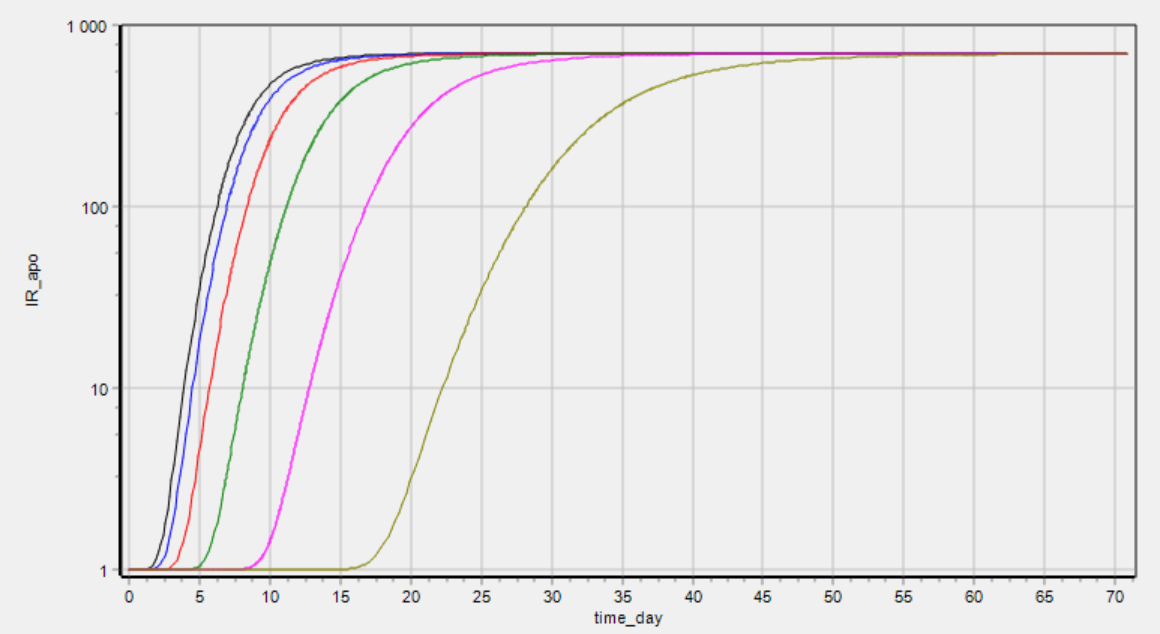
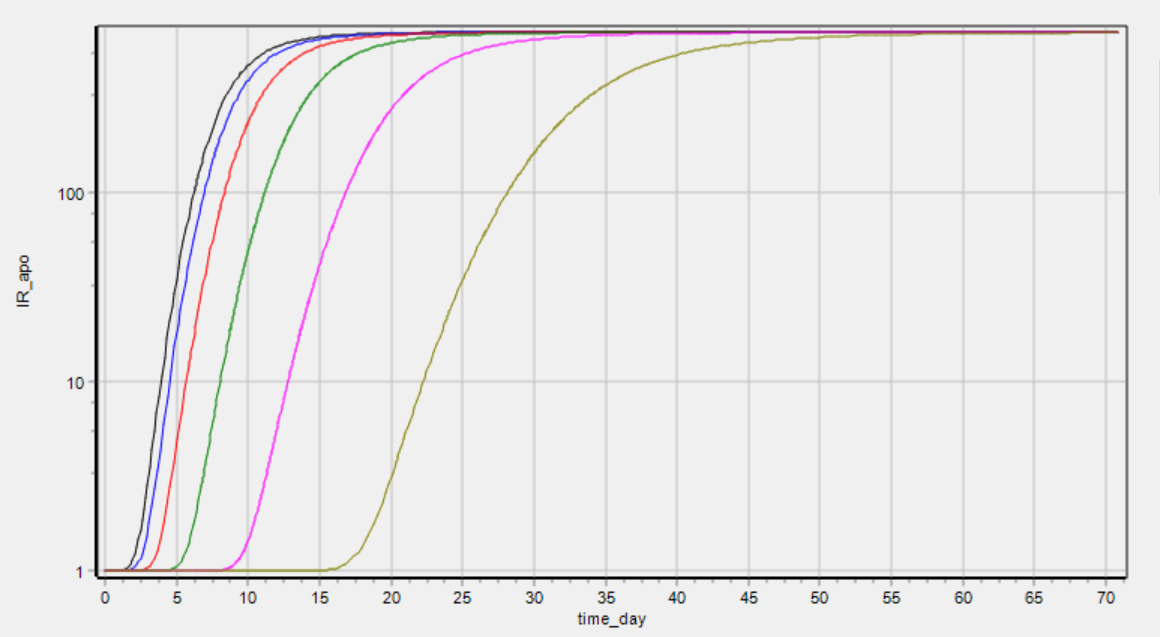
update autoplots after correction

Changed region(s): [[0.0, 0.03, 1.0, 0.989]]

diff --git a/diagnostics/matlab/run.m b/diagnostics/matlab/run.m
@@ -3,14 +3,14 @@ addpath("../../dist/covid19_integrated_matlab")
 
 p_names = ["kcell_to_cell", "NA_pmole", "sputum_dilution_coef", "k_apo_pc", "kbase_apo_vpc", "kbase_tran_pc_ipc", "kbase_tran_ipc_vpc", "k_shed_ace2_pc", "k_off_cov_ace2", "Num_sp_per_cov", "Kd_spike_ace2", "k_ent_cov_ipc", "k_rel_cov_vpc", "k_unc_cov_vpc", "k_rep_cov_rna_vpc", "EC50_rep_cov_rna_vpc", "k_ass_cov_vpc", "k_deg_cov", "Nmax_cov_per_cell", "k_deg_cov_rna", "T_sw_ir", "ET50_ir", "Emax_ir_apo", "n_ir", "Kd_anti_Ab", "anti_Ab_max", "Vol_pc", "L_to_mL"];
 output_names = ["time_day", "COVass_vpc", "Vol_alv", "vPC", "COVass_vpc_per_cell", "COV", "COV_RNA", "COV_num_sputum_ml", "PC", "iPC", "PC_tot", "PC_percent", "iPC_percent", "vPC_percent", "ACE2_pc", "ACE2_pc_per_cell", "COV_ACE2_pc", "COV_ACE2_pc_per_cell", "ACE2_pc_per_cell_tot", "ACE2_ipc", "ACE2_ipc_per_cell", "COV_ACE2_ipc", "COV_ACE2_ipc_per_cell", "ACE2_ipc_per_cell_tot", "ACE2_vpc", "ACE2_vpc_per_cell", "COV_ACE2_vpc", "COV_ACE2_vpc_per_cell", "ACE2_vpc_per_cell_tot", "COV_pc_per_cell_tot", "COV_ipc", "COV_ipc_per_cell", "COV_ipc_per_cell_tot", "COV_vpc", "COV_vpc_per_cell", "COV_RNA_vpc", "COV_RNA_vpc_per_cell", "COV_vpc_per_cell_tot", "COV_sgRNA_perc", "PC_hs_ss", "V_mat_pc", "k_tran_pc_ipc", "V_tran_pc_ipc", "k_tran_ipc_vpc", "V_tran_ipc_vpc", "V_apo_pc", "V_apo_ipc", "switch_ir", "IR_apo", "k_apo_vpc", "V_apo_vpc", "ACE2_pc_hs_ss", "k_syn_ace2_pc", "V_syn_ace2_pc", "V_shed_ace2_pc", "steric_factor_pc", "anti_Ab", "VO", "Kd_cov_ace2", "V_bind_cov_ace2_pc", "V_deg_ace2_apo_pc", "V_deg_cov_ace2_apo_pc", "V_tran_ace2_pc_ipc", "V_tran_cov_ace2_pc_ipc", "V_syn_ace2_ipc", "V_shed_ace2_ipc", "steric_factor_ipc", "V_bind_cov_ace2_ipc", "V_deg_ace2_apo_ipc", "V_deg_cov_ace2_apo_ipc", "V_deg_cov_apo_ipc", "V_ent_cov_ipc", "V_tran_ace2_ipc_vpc", "V_tran_cov_ace2_ipc_vpc", "V_tran_cov_ipc_vpc", "V_syn_ace2_vpc", "V_shed_ace2_vpc", "steric_factor_vpc", "V_bind_cov_ace2_vpc", "V_deg_ace2_apo_vpc", "V_deg_cov_ace2_apo_vpc", "V_ent_cov_vpc", "V_unc_cov_vpc", "V_rep_cov_rna_vpc", "V_ass_cov_vpc", "V_rel_cov_vpc", "V_deg_cov_apo_vpc", "V_deg_cov_ass_apo_vpc", "V_deg_cov_rna_apo_vpc", "V_deg_cov", "V_deg_cov_rna"];
-show_names = ["IR_apo", "COV_num_sputum_ml", "time_day"];
+
 
 p = param();
-[ode_func, out_func, y0, events] = model(p);
+[ode_func, out_func, y0, events_conditions, events_affects] = model(p);
 
 %%% default task
 t_span = [0 1700]; 
-opt = odeset('OutputFcn', out_func, 'Events', events{1}, 'MaxStep', 3); % odeset('Mass',M,'RelTol',1e-4,'AbsTol',[1e-6 1e-10 1e-6], 'Stats','on');
+opt = odeset('OutputFcn', out_func, 'Events', events_conditions, 'MaxStep', 3); % odeset('Mass',M,'RelTol',1e-4,'AbsTol',[1e-6 1e-10 1e-6], 'Stats','on');
 
 % solution with events
 ti = t_span(1);
@@ -21,14 +21,16 @@ while ti < t_span(2)
     [t, y, te, ye, ie] = ode15s(ode_func, [ti t_span(2)], yi, opt);
 
     tout = vertcat(tout, t);
-    if length(te) == 0
+    if isempty(ie)
         break
     end
     ti = t(end);
-    yi = events{2}(ti, ye(end,:));
+    ev = events_affects(ie(end));
+    yi = ev{1}(ti, ye(end,:));
 end
 
 % select output to plot
+show_names = ["IR_apo", "COV_num_sputum_ml", "time_day"];
 [idx, loc] = ismember(show_names, output_names);
 fig = figure(1);
 % plot IR_apo

diff --git a/README.md b/README.md
@@ -113,7 +113,7 @@ Any contribution is welcomed: bug reports, pull requests (code or documentation)
 
 ## Known issues
 
-- The generated model code works wrong in Simbiology. We do not still understand why. Use Matlab or other tools instead.
+- Nothing
 
 ## License
 

diff --git a/diagnostics/README.md b/diagnostics/README.md
@@ -14,3 +14,8 @@
 
 1. Open bash in repository root
 1. ./diagnostics/simbio/start.sh or (bash ./diagnostics/simbio/start.sh)
+
+## Matlab - semi-manual run
+
+1. Open bash in repository root
+1. ./diagnostics/matlab/start.sh or (bash ./diagnostics/matlab/start.sh)

diff --git a/static/README.md b/static/README.md
@@ -33,5 +33,4 @@ git pull
 
 ### format: Simbio
 
-*Simulations display wrong results in comparison with DBSolve, Matlab and COPASI. 
-We are working on Simbio version of the code.*
+![default-matlab-plot](./plots/default-simbio-plot.png)
